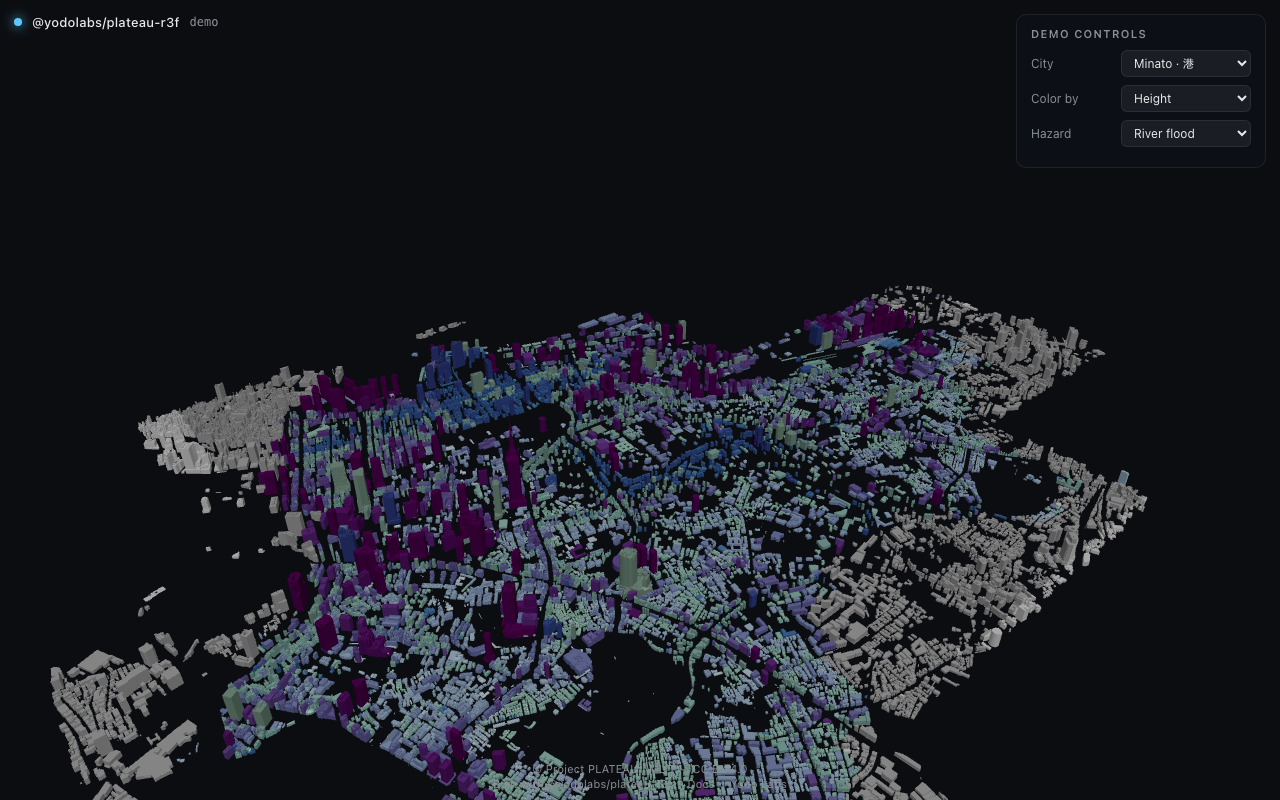
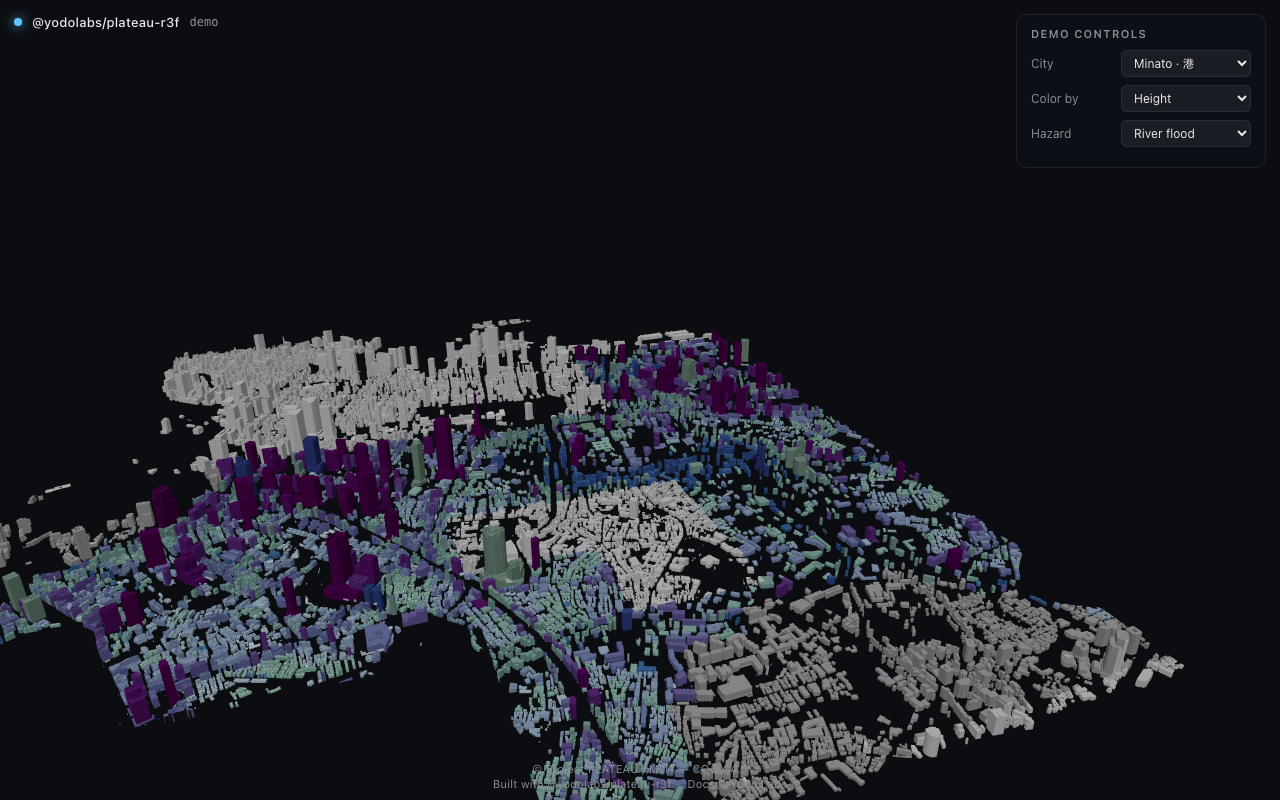
0.1.2: robust rebuild gating + larger style LRU
- Switch rebuildTile gating to entry-local terminallyFailed /
  rebuildInFlight flags. Previously the gates lived on handle.state,
  which the visibility callback overwrites to 'visible'/'hidden' —
  letting permanent style 404s retry on every hide→visible cycle and
  duplicate awaiters stack during LOD churn. Found in code review.
- StyleTableCache default max 256 → 4096 so large cities don't churn
  visible-tile arrows out of cache. Visible tiles are still pinned by
  refCount.

diff --git a/src/core/PlateauRuntime.ts b/src/core/PlateauRuntime.ts
@@ -63,6 +63,10 @@ interface TileEntry {
   handle: TileRuntimeHandle;
   colorTexture?: TileColorTexture;
   styleVersion: number;
+  /** True once rebuildTile finishes successfully or terminally fails. */
+  terminallyFailed?: boolean;
+  /** True while a rebuildTile is in flight — prevents duplicate awaiters. */
+  rebuildInFlight?: boolean;
 }
 
 export interface PlateauRuntime extends PlateauRuntimeApi {
@@ -230,65 +234,83 @@ export async function createPlateauRuntime(
 
   async function rebuildTile(entry: TileEntry): Promise<void> {
     const uri = entry.handle.tile_content_uri;
-    if (entry.handle.state === 'featureIdMissing') return;
+    // Use entry-local flags rather than handle.state — visibility events
+    // overwrite state to 'visible'/'hidden' so it can't be used to gate
+    // terminal failure or in-flight detection.
+    if (entry.terminallyFailed) return;
+    if (entry.rebuildInFlight) return;
     if (!entry.handle.featureIdAttribute) return;
     if (!tileAlive(entry, uri)) return;
+    entry.rebuildInFlight = true;
     const planAtStart = plan;
-    entry.handle.state = 'styleRequested';
-    let table;
+    if (entry.handle.state !== 'visible' && entry.handle.state !== 'hidden') {
+      entry.handle.state = 'styleRequested';
+    }
     try {
-      table = await styleCache.get(uri);
-    } catch (cause) {
+      let table;
+      try {
+        table = await styleCache.get(uri);
+      } catch (cause) {
+        if (!tileAlive(entry, uri)) return;
+        entry.terminallyFailed = true;
+        if (entry.handle.state !== 'visible' && entry.handle.state !== 'hidden') {
+          entry.handle.state = 'featureIdMissing';
+        }
+        opts.onError?.({
+          code: 'style_load_failed',
+          message: `Failed to load style for ${uri}`,
+          cause,
+        });
+        computeFallback();
+        return;
+      }
       if (!tileAlive(entry, uri)) return;
-      entry.handle.state = 'featureIdMissing';
-      opts.onError?.({
-        code: 'style_load_failed',
-        message: `Failed to load style for ${uri}`,
-        cause,
+      // Drop result if a newer color plan superseded ours while we awaited.
+      if (entry.styleVersion >= planAtStart.version && entry.colorTexture) return;
+      if (entry.handle.state !== 'visible' && entry.handle.state !== 'hidden') {
+        entry.handle.state = 'styleLoaded';
+      }
+      if (entry.colorTexture) {
+        disposeTexture(entry.colorTexture.texture);
+        entry.colorTexture = undefined;
+      }
+      const colorTexture = buildTileColorTexture({
+        table,
+        colorBy: compiledColor,
+        layers: compiledLayers,
       });
-      computeFallback();
-      return;
+      if (!tileAlive(entry, uri)) {
+        disposeTexture(colorTexture.texture);
+        return;
+      }
+      entry.colorTexture = colorTexture;
+      entry.styleVersion = plan.version;
+      if (entry.handle.state !== 'visible' && entry.handle.state !== 'hidden') {
+        entry.handle.state = 'colorTextureReady';
+      }
+      for (const meshEntry of entry.handle.meshes) {
+        if (!meshEntry.featureIdAttribute) continue;
+        applyShaderPatch(meshEntry.mesh, {
+          featureIdAttribute: meshEntry.featureIdAttribute,
+          colorTexture,
+          opacity: plan.opacity,
+          cacheKeySalt,
+          extensions: shaderExtensions,
+          onUnsupported: (material) => {
+            opts.onError?.({
+              code: 'unknown',
+              message: `Material "${material.type}" is unsupported for plateau shader patch; tile ${uri} will not be styled.`,
+            });
+          },
+        });
+      }
+      if (entry.handle.state !== 'visible' && entry.handle.state !== 'hidden') {
+        entry.handle.state = 'shaderInjected';
+      }
+      bumpColorPlanVersion();
+    } finally {
+      entry.rebuildInFlight = false;
     }
-    if (!tileAlive(entry, uri)) return;
-    // Drop result if a newer color plan superseded ours while we awaited
-    // — the next setColorPlan() call will rebuild with the latest plan.
-    if (entry.styleVersion >= planAtStart.version && entry.colorTexture) return;
-    entry.handle.state = 'styleLoaded';
-    if (entry.colorTexture) {
-      disposeTexture(entry.colorTexture.texture);
-      entry.colorTexture = undefined;
-    }
-    const colorTexture = buildTileColorTexture({
-      table,
-      colorBy: compiledColor,
-      layers: compiledLayers,
-    });
-    if (!tileAlive(entry, uri)) {
-      // Tile was disposed while we were composing the texture.
-      disposeTexture(colorTexture.texture);
-      return;
-    }
-    entry.colorTexture = colorTexture;
-    entry.styleVersion = plan.version;
-    entry.handle.state = 'colorTextureReady';
-    for (const meshEntry of entry.handle.meshes) {
-      if (!meshEntry.featureIdAttribute) continue;
-      applyShaderPatch(meshEntry.mesh, {
-        featureIdAttribute: meshEntry.featureIdAttribute,
-        colorTexture,
-        opacity: plan.opacity,
-        cacheKeySalt,
-        extensions: shaderExtensions,
-        onUnsupported: (material) => {
-          opts.onError?.({
-            code: 'unknown',
-            message: `Material "${material.type}" is unsupported for plateau shader patch; tile ${uri} will not be styled.`,
-          });
-        },
-      });
-    }
-    entry.handle.state = 'shaderInjected';
-    bumpColorPlanVersion();
   }
 
   async function rebuildAll(): Promise<void> {
@@ -344,13 +366,14 @@ export async function createPlateauRuntime(
       // Resilient retry: if the tile reached "visible" without being styled
       // (e.g. an earlier rebuildTile bailed because tileAlive went false
       // mid-flight while the camera was reframing), trigger a fresh rebuild.
+      // Gates use entry-local flags so they survive visibility state writes.
       const entry = tiles.get(uri);
       if (
         entry &&
         entry.handle.featureIdAttribute &&
         !entry.colorTexture &&
-        entry.handle.state !== 'featureIdMissing' &&
-        entry.handle.state !== 'styleRequested'
+        !entry.terminallyFailed &&
+        !entry.rebuildInFlight
       ) {
         void rebuildTile(entry);
       }

diff --git a/src/style/StyleTableCache.ts b/src/style/StyleTableCache.ts
@@ -35,7 +35,10 @@ export interface StyleTableCache {
 }
 
 export function createStyleTableCache(opts: StyleTableCacheOptions): StyleTableCache {
-  const max = opts.max ?? 256;
+  // Large default. Wards like Chiyoda have ~1.6k tiles; Kamakura ~2.7k. With
+  // refCount pinning, visible tiles are safe past the cap; only background /
+  // off-screen tiles are eligible for eviction.
+  const max = opts.max ?? 4096;
   const releaseDelayMs = opts.releaseDelayMs ?? 5000;
 
   const lru = new LruCache<CacheEntry>({

diff --git a/CHANGELOG.md b/CHANGELOG.md
@@ -26,6 +26,18 @@
 - Polished UI: glassmorphism control panel (city / colorBy / hazard), loading spinner, brand chip.
 - `?city=<id>` URL param for shareable views.
 
+### 0.1.2 — Robust rebuild gating + larger style cache
+
+- Replaced `entry.handle.state`-based gating in `rebuildTile` with
+  entry-local `terminallyFailed` / `rebuildInFlight` flags. Visibility
+  events write to `state` ('visible'/'hidden'), which previously could
+  clobber `'featureIdMissing'`/`'styleRequested'` and let permanent
+  failures silently retry on every hide→visible cycle, or stack duplicate
+  awaiters during LOD churn. (Found in code review.)
+- `StyleTableCache` default `max` raised 256 → 4096 to comfortably cover
+  large cities (Kamakura 2.7k tiles, Nagoya 22k). Visible tiles are
+  pinned by refCount; only off-screen entries are eligible for eviction.
+
 ### 0.1.1 — Resilient styling on big cities
 
 - Fix a race where `rebuildTile` could bail mid-flight (camera reframing